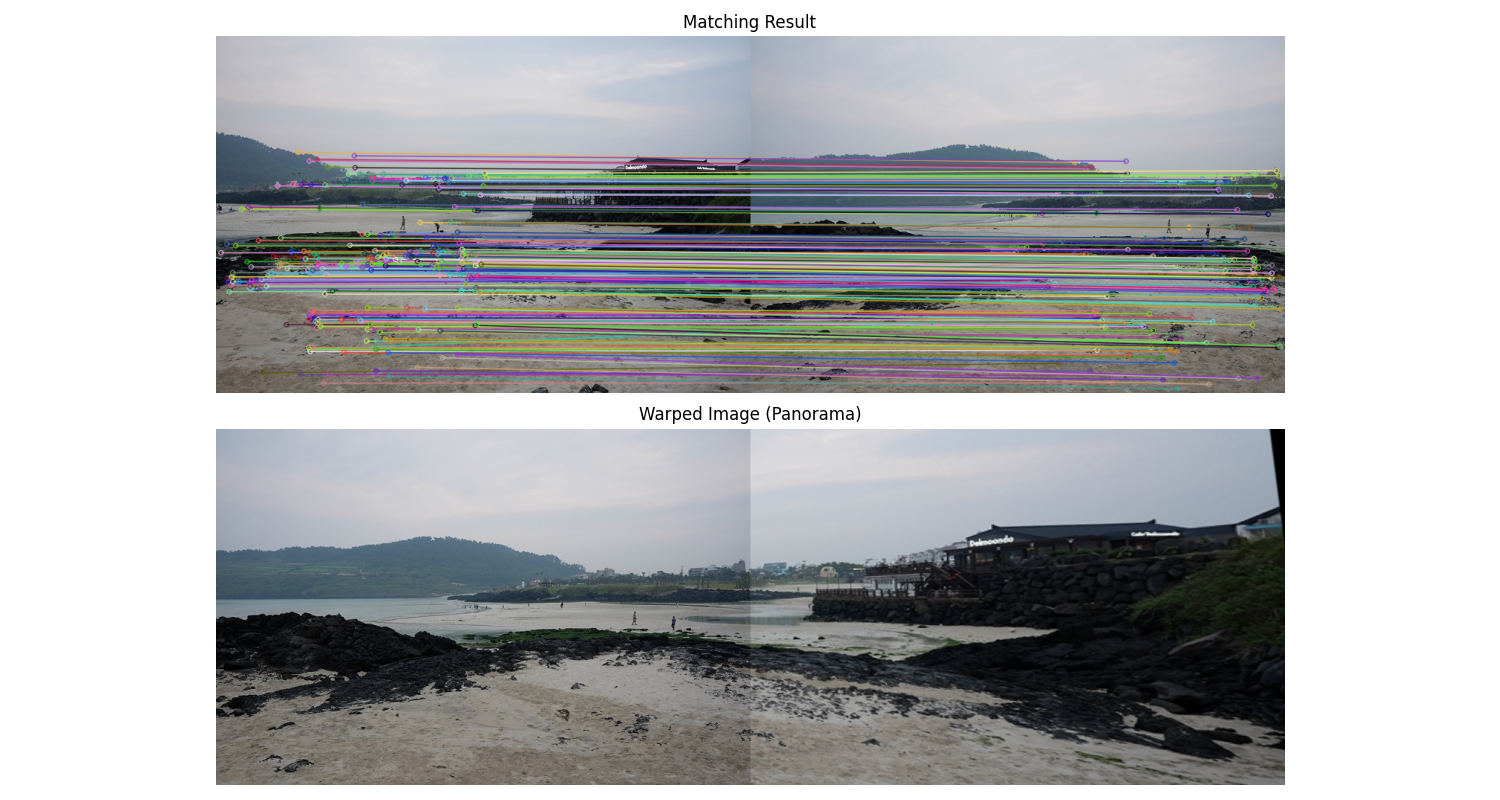
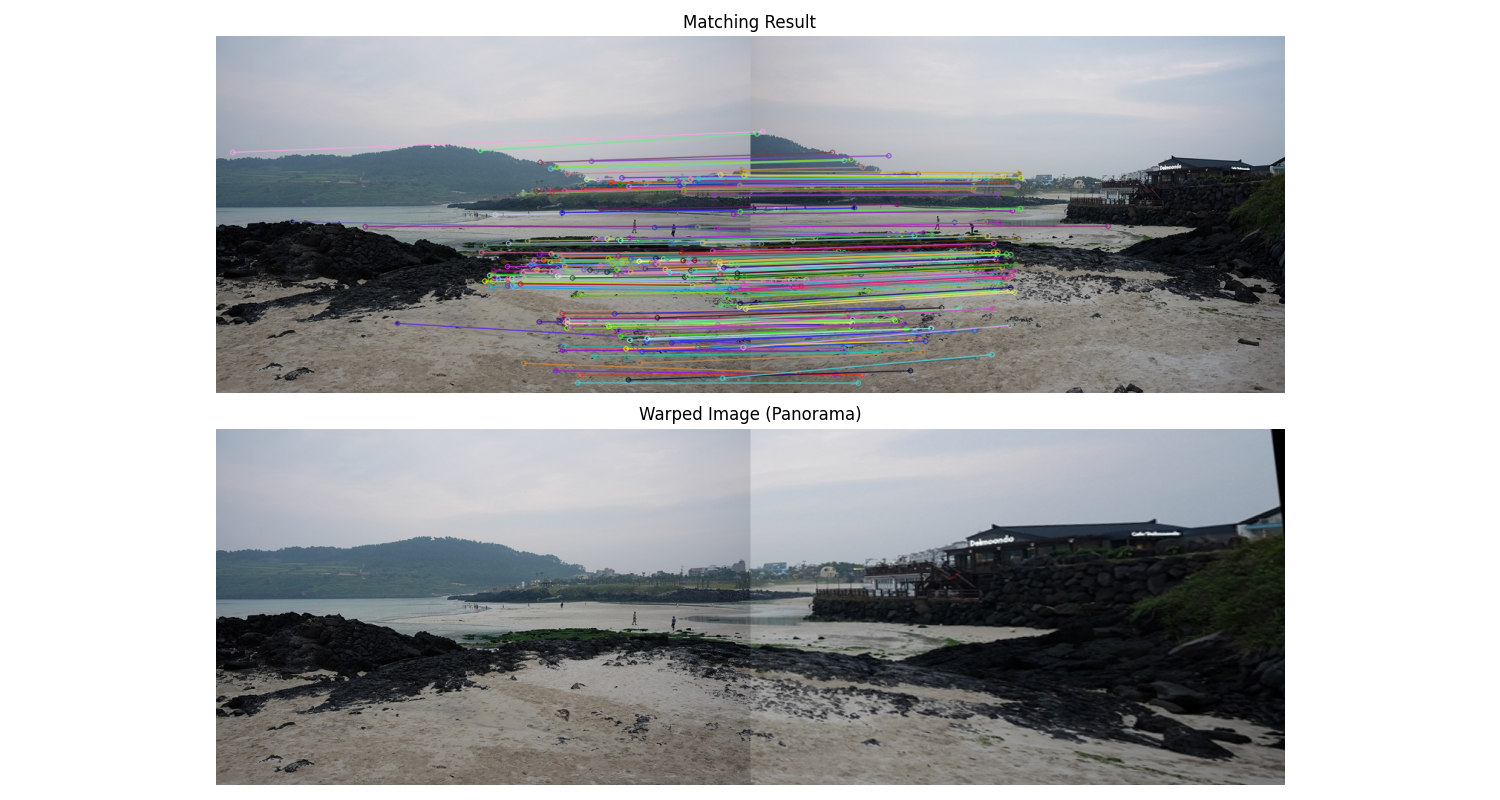
Refactor backward warping to support left-to-right intuitive image loading

Changed region(s): [[0.1227, 0.1562, 0.8587, 0.5], [0.46, 0.0625, 0.5213, 0.125], [0.828, 0.0625, 0.8587, 0.125]]

diff --git a/4주차_과제/03_homography_alignment.py b/4주차_과제/03_homography_alignment.py
@@ -3,8 +3,8 @@ import numpy as np
 import matplotlib.pyplot as plt
 
 # 1. 두 이미지 로드 (샘플 이미지 img1.jpg, img2.jpg 선택)
-img1 = cv.imread('images/img3.jpg') # 변환될 이미지 (오른쪽 사진)
-img2 = cv.imread('images/img2.jpg') # 기준 이미지 (왼쪽 사진)
+img1 = cv.imread('images/img2.jpg') # 캔버스의 기준이 될 이미지 (왼쪽 사진)
+img2 = cv.imread('images/img3.jpg') # 변환되어 오른쪽에 붙을 이미지 (오른쪽 사진)
 
 if img1 is None or img2 is None:
     print('Failed to load images.')
@@ -38,8 +38,8 @@ if len(good_matches) > 4:
     dst_pts = np.float32([kp2[m.trainIdx].pt for m in good_matches]).reshape(-1, 1, 2)
     
     # RANSAC을 이용한 호모그래피 계산
-    # img1의 좌표를 변환하여 img2의 좌표계로 맞춤
-    H, mask = cv.findHomography(src_pts, dst_pts, cv.RANSAC, 5.0)
+    # img2의 좌표를 변환하여 img1의 좌표계로 맞춤 (이렇게 하면 오른쪽 사진이 양수 좌표로 확장되므로 잘리지 않습니다)
+    H, mask = cv.findHomography(dst_pts, src_pts, cv.RANSAC, 5.0)
     
     # 5. 한 이미지를 변환하여 정렬 (파노라마)
     # img1을 img2 평면으로 투영. 
@@ -48,16 +48,14 @@ if len(good_matches) > 4:
     h2, w2 = img2_rgb.shape[:2]
     out_w, out_h = w1 + w2, max(h1, h2)
     
-    # img1 변환
-    warped_img1 = cv.warpPerspective(img1_rgb, H, (out_w, out_h))
+    # img2 변환
+    warped_img2 = cv.warpPerspective(img2_rgb, H, (out_w, out_h))
     
-    # 변환된 결과 그림 위에 img2를 겹쳐 그리기
-    # img2는 변환 없이 원점(0,0)에 배치되는 기준 이미지라고 가정했을 경우.
-    # 하지만 img1에서 img2로 변환하는 H를 구했으므로 img2가 기준이 됩니다.
-    panorama = warped_img1.copy()
+    # 변환된 결과 그림 위에 img1을 겹쳐 그리기
+    panorama = warped_img2.copy()
     
-    # img2를 왼쪽에 덮어씌움
-    panorama[0:h2, 0:w2] = img2_rgb
+    # img1을 왼쪽에 덮어씌움
+    panorama[0:h1, 0:w1] = img1_rgb
     
     # 6. 결과 출력
     plt.figure(figsize=(15, 8))
